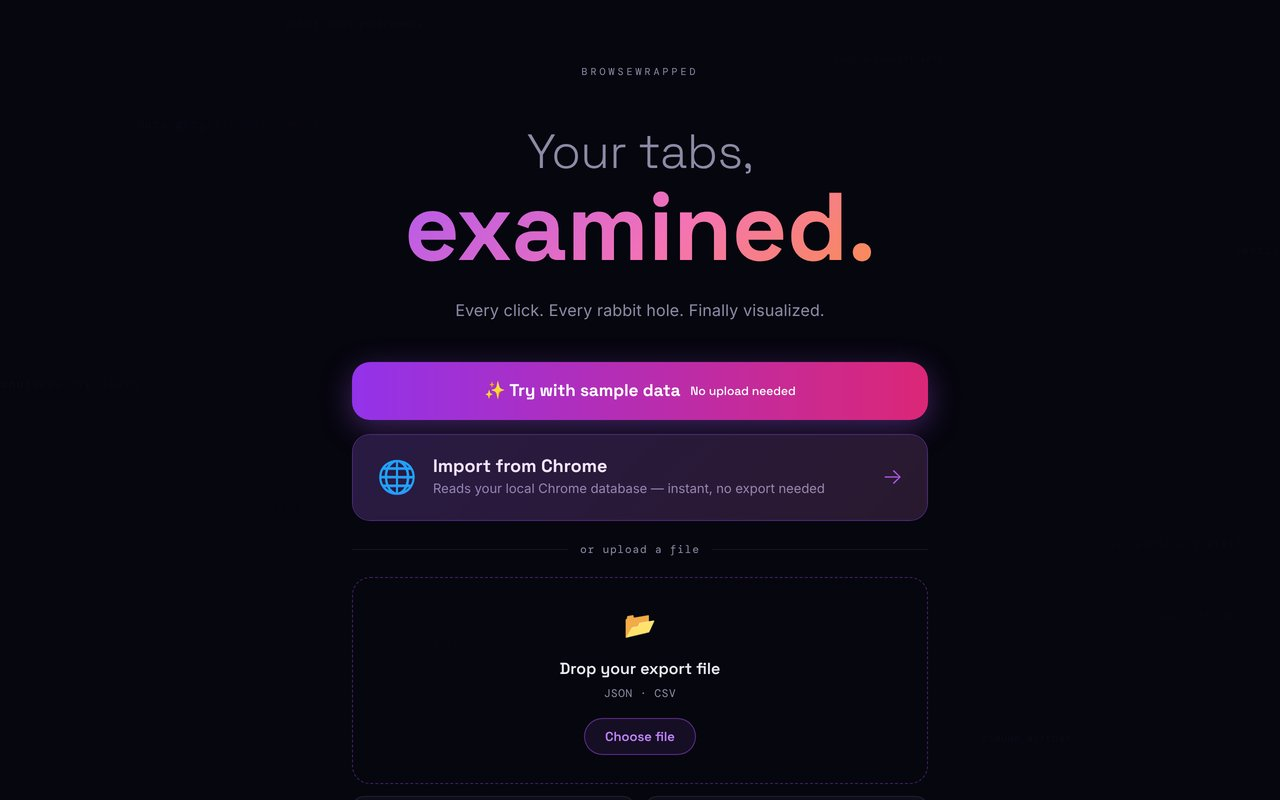
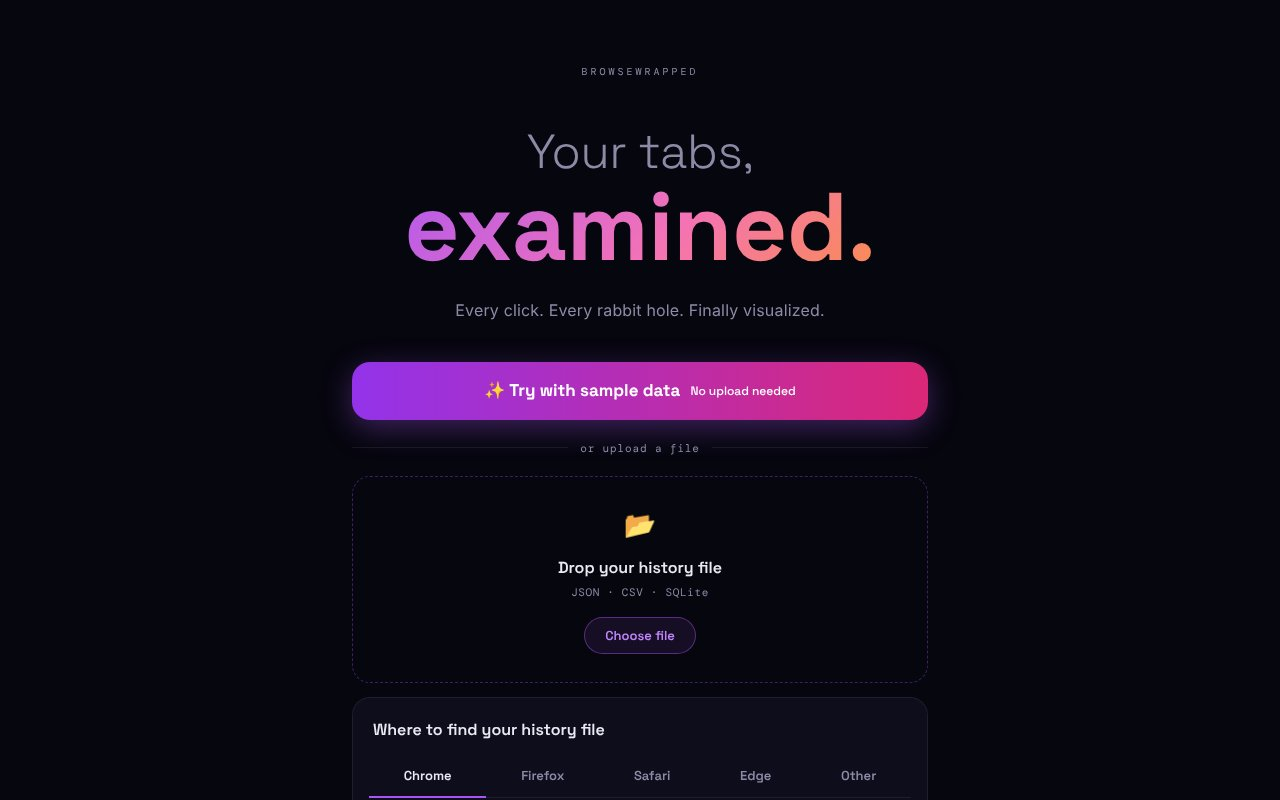
docs: add export guide screenshot and sprint 2 features
- New docs/screenshots/export-guide.jpg (1280 px, Chrome tab with the
  macOS, Windows and Linux paths) in the Screenshots table.
- upload.jpg refreshed: "Drop your history file", JSON · CSV · SQLite and
  the guide below the drop zone, as the hosted site shows it.
- Features: SQLite history databases and the extensionless History
  file, clearer friendly-error list, and a "Ready to deploy" entry.

Refs: https://app.clickup.com/t/14ypx623hkc

diff --git a/README.md b/README.md
@@ -17,15 +17,15 @@ This repo is the **React frontend**. The analysis happens in the Rails API: [bro
 | ![Topic breakdown and most visited sites](docs/screenshots/explored.jpg) | ![Heatmap](docs/screenshots/rhythm.jpg) |
 | **Knowledge map** | **Persona card (downloaded PNG)** |
 | ![Topic graph](docs/screenshots/universe.jpg) | ![1080×1350 persona card image](docs/screenshots/persona-card.jpg) |
-| **Mobile (375 px)** | |
-| ![Results page on a phone](docs/screenshots/mobile-results.jpg) | |
+| **Export guide** | **Mobile (375 px)** |
+| ![Where to find your history file: browser tabs with copyable file paths](docs/screenshots/export-guide.jpg) | ![Results page on a phone](docs/screenshots/mobile-results.jpg) |
 
 > Screenshots use the synthetic sample file from the API repo (`sample/sample_history.json`), not real browsing data.
 
 ## Features
 
 - **Try with sample data:** one click shows a full report from a synthetic history, no export needed
-- **Upload or import:** drop a Chrome Takeout JSON, an extension export (JSON or CSV), or the browser's own history database: Chrome/Edge `History`, Firefox `places.sqlite` or Safari `History.db`. The API can also read Chrome's local database directly when it runs on the same machine
+- **Upload or import:** drop a Chrome Takeout JSON, an extension export (JSON or CSV), or the browser's own SQLite history database: Chrome/Edge `History`, Firefox `places.sqlite` or Safari `History.db` (the file picker has no extension filter, so the extensionless `History` file can be chosen). When the API runs on your own machine, "Import from Chrome" reads Chrome's database directly
 - **Export guide:** step-by-step tabs for Chrome, Firefox, Safari, Edge and other browsers, with file locations on macOS, Windows and Linux and a one-click copy for each path. It opens on the visitor's own browser
 - **Persona card:** a fun "you are…" summary (The Builder, The AI Pioneer…) based on your top topics
 - **Download image:** save your persona card as a 1080×1350 PNG (persona, top topics, key stats), made in your browser
@@ -37,7 +37,8 @@ This repo is the **React frontend**. The analysis happens in the Rails API: [bro
 - **Large files:** big uploads are analysed in the background; `/analyses/:id` shows a processing screen and polls until the report is ready
 - **Share links:** "Share my report" creates a public `/r/:token` page with aggregated stats only (no URLs, titles, searches or site names), which you can delete at any time
 - **Accessible and responsive:** works from 375 px phones up, keyboard friendly (skip link, visible focus), WCAG AA contrast, and every chart has a text alternative
-- **Friendly errors:** unsupported or empty files, oversized uploads and rate limits get a plain-English message instead of a crash
+- **Friendly errors:** unsupported or empty files, databases that aren't browser history or were copied half-written, oversized uploads and rate limits (with the real wait from `Retry-After`) get a plain-English message instead of a crash
+- **Ready to deploy:** Vercel config with SPA rewrites, a strict Content Security Policy and security headers; the API URL comes from `VITE_API_URL`, and report pages and charts load as separate chunks
 - **Tested:** Vitest + React Testing Library suite (pages, period comparison, persona image, error copy, skip link), run with lint and the build in CI
 
 ## Tech stack
